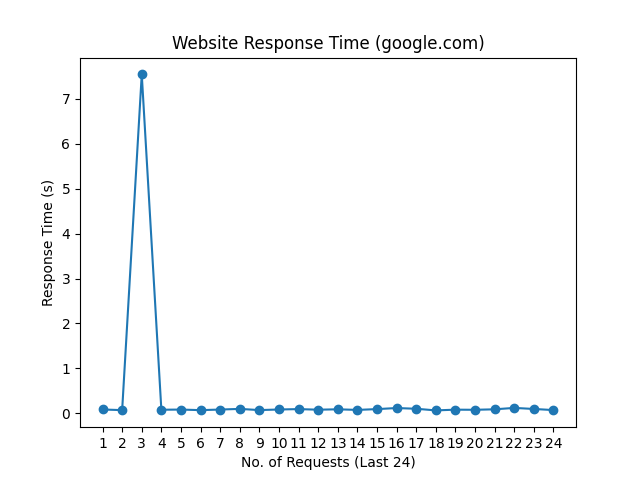
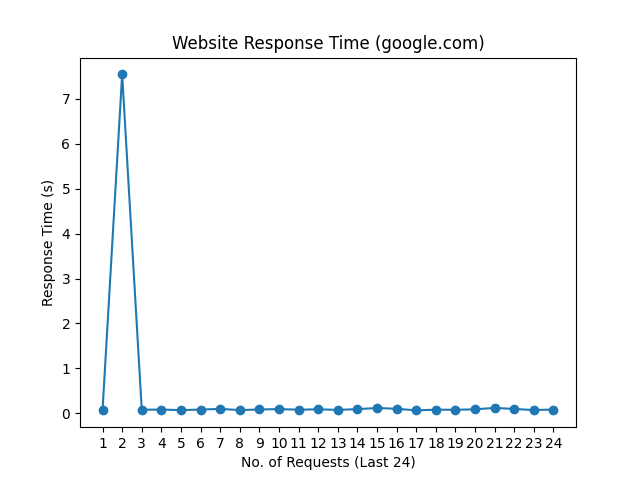
update README.md, history and graph

Changed region(s): [[0.1562, 0.125, 0.25, 0.875], [0.3125, 0.8438, 0.6562, 0.875], [0.7188, 0.8438, 0.8438, 0.875]]

diff --git a/README.md b/README.md
@@ -1,10 +1,10 @@
 # Web Monitoring
 
-Last Checked: 23/12/2023 09:00
+Last Checked: 24/12/2023 09:06
 
 | Website | Response Time (s) | Status | Avg Uptime (%) |
 |---------|-------------------|--------|----------------|
 | www.thiswebsiteisdown.net | 0 <br> <img src="graph/thiswebsiteisdown.net.png" alt="Graph" width="200" height="200">  | ❌ Down | 0.00 |
-| www.netflix.com | 0.724937 <br> <img src="graph/netflix.com.png" alt="Graph" width="200" height="200">  | ✅ Up | 100.00 |
-| www.google.com | 0.072102 <br> <img src="graph/google.com.png" alt="Graph" width="200" height="200">  | ✅ Up | 100.00 |
-| www.facebook.com | 0.293004 <br> <img src="graph/facebook.com.png" alt="Graph" width="200" height="200">  | ✅ Up | 100.00 |
+| www.netflix.com | 0.646449 <br> <img src="graph/netflix.com.png" alt="Graph" width="200" height="200">  | ✅ Up | 100.00 |
+| www.google.com | 0.084818 <br> <img src="graph/google.com.png" alt="Graph" width="200" height="200">  | ✅ Up | 100.00 |
+| www.facebook.com | 0.387132 <br> <img src="graph/facebook.com.png" alt="Graph" width="200" height="200">  | ✅ Up | 100.00 |
